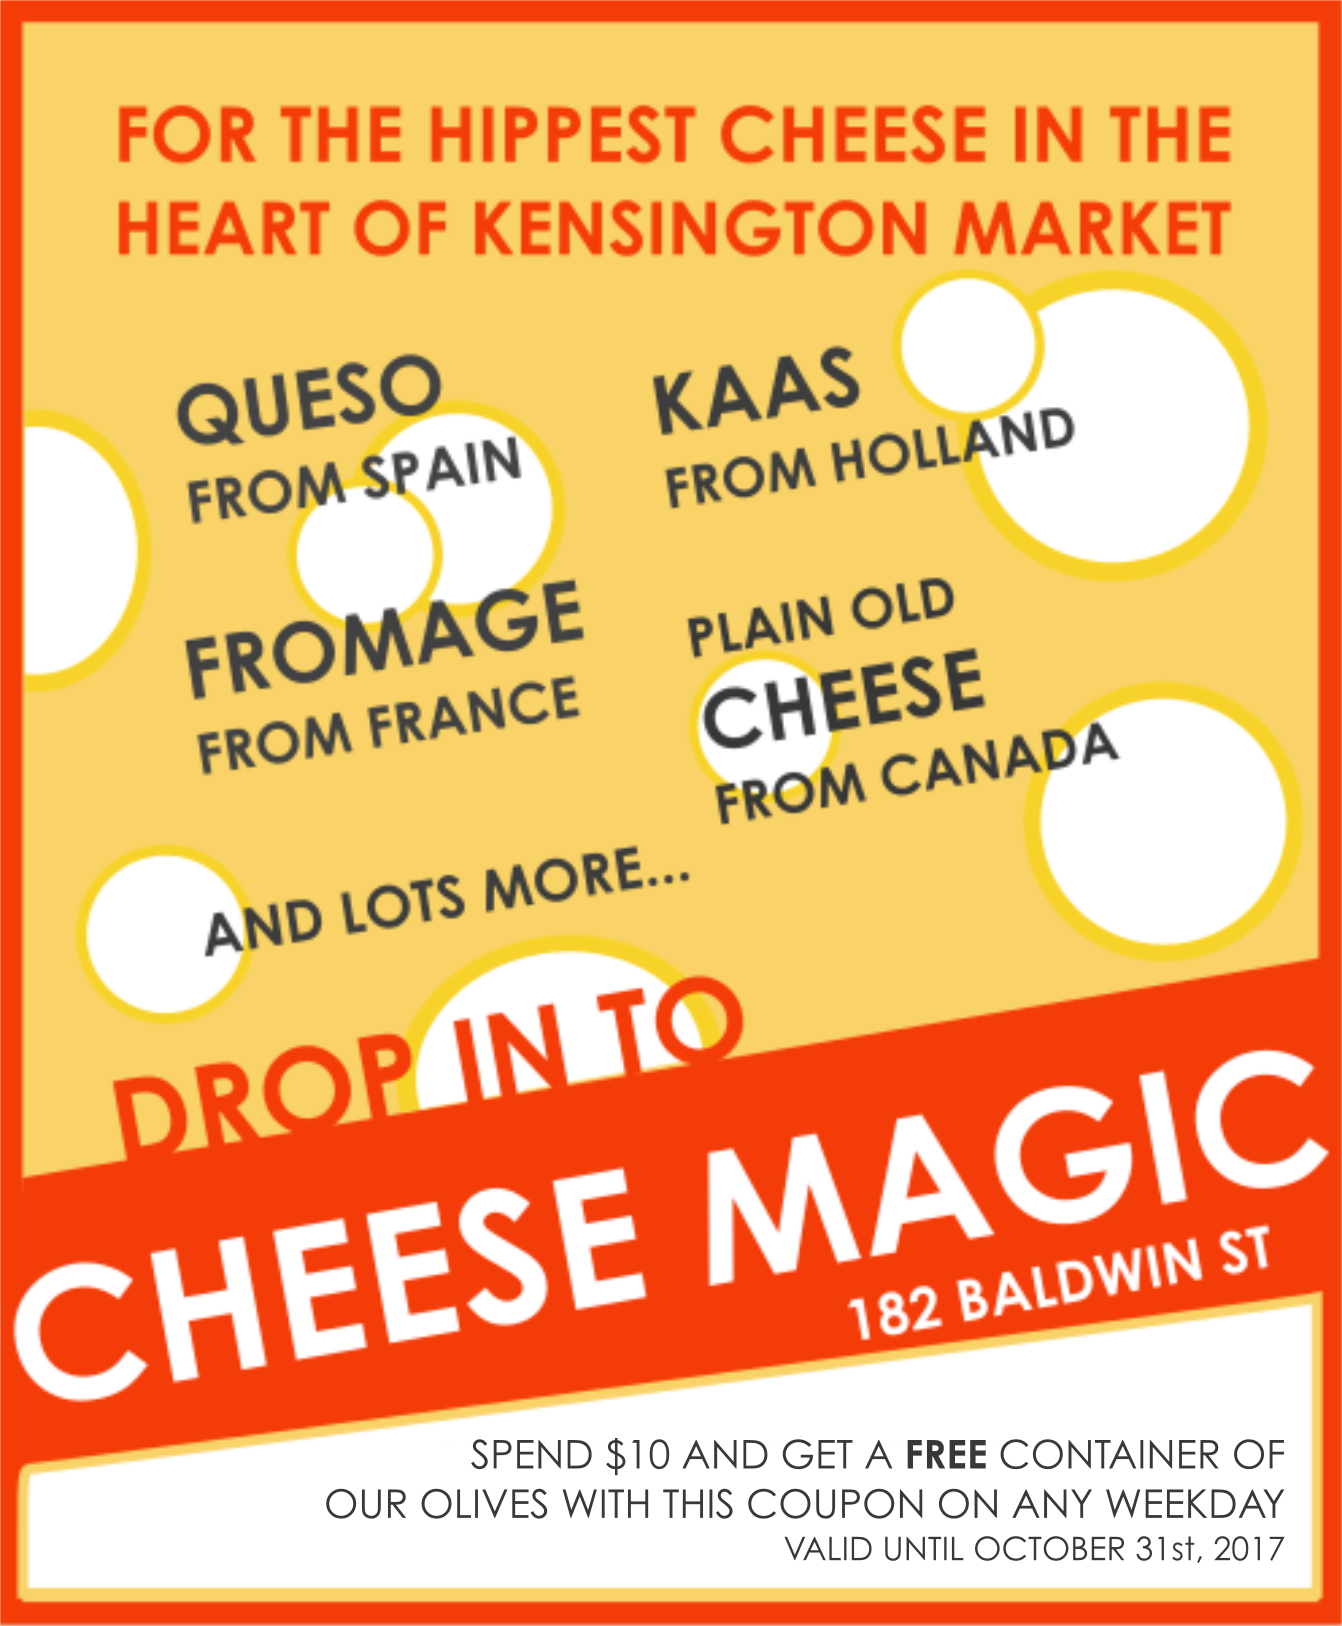
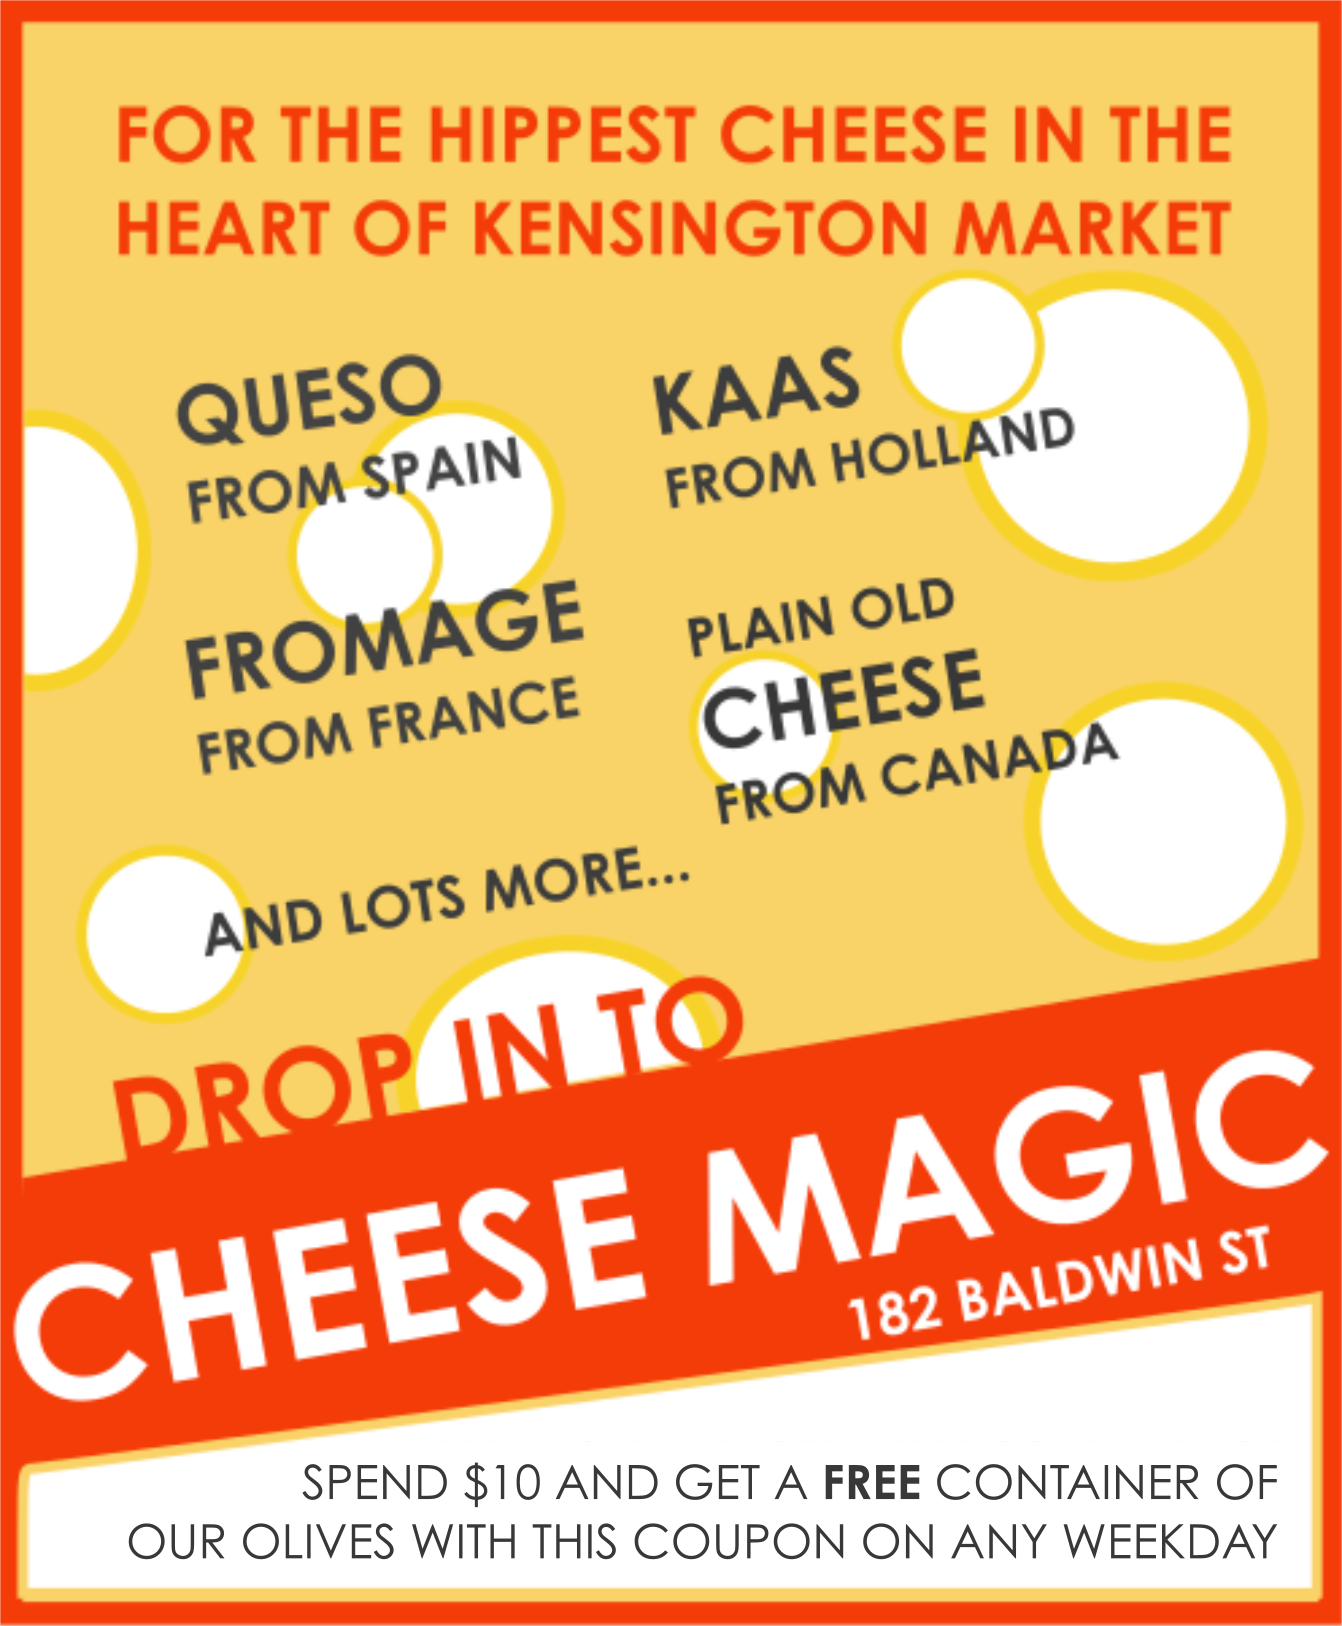
new image

Changed region(s): [[0.0917, 0.861, 0.9471, 0.984]]

diff --git a/deals.html b/deals.html
@@ -53,7 +53,7 @@
                                     <h3 style="font-size: 40px">Spot the <u>1 difference</u> between these two pictures and get 10% off your next purchase of $15 or more!</h3>
                                 </header>
                                     <p style="color: orangered">
-									Come into our store and show us the item/product on our shelf that is different in the two pictures, and get 10% off your purchase of $15 or more. This deal is valid any weekday until October 31st, 2017 except for on holidays.
+									Come into our store and show us the item/product on our shelf that is different in the two pictures, and get 10% off your purchase of $15 or more. This deal is valid any weekday until November 3rd, 2017 except for on holidays.
                                     </p>
 								
                                 
@@ -94,7 +94,7 @@
 									<h3 style="color: orangered;font-size: 50px">FREE container of our olives with the purchase of $10 or more!</h3>
 								</header>
                                     <p>
-									Take a screenshot of this coupon or show it to us on your phone to redeem your free container of olives with the purchase of $10 or more of any of our products (one container per purchase). This coupon is valid on any weekday until October 31st, 2017 except for on holidays.
+									Take a screenshot of this coupon or show it to us on your phone to redeem your free container of olives with the purchase of $10 or more of any of our products (one container per purchase). This coupon is valid on any weekday until November 3rd, 2017 except for on holidays.
 								</p>
                                     </div>
                                
